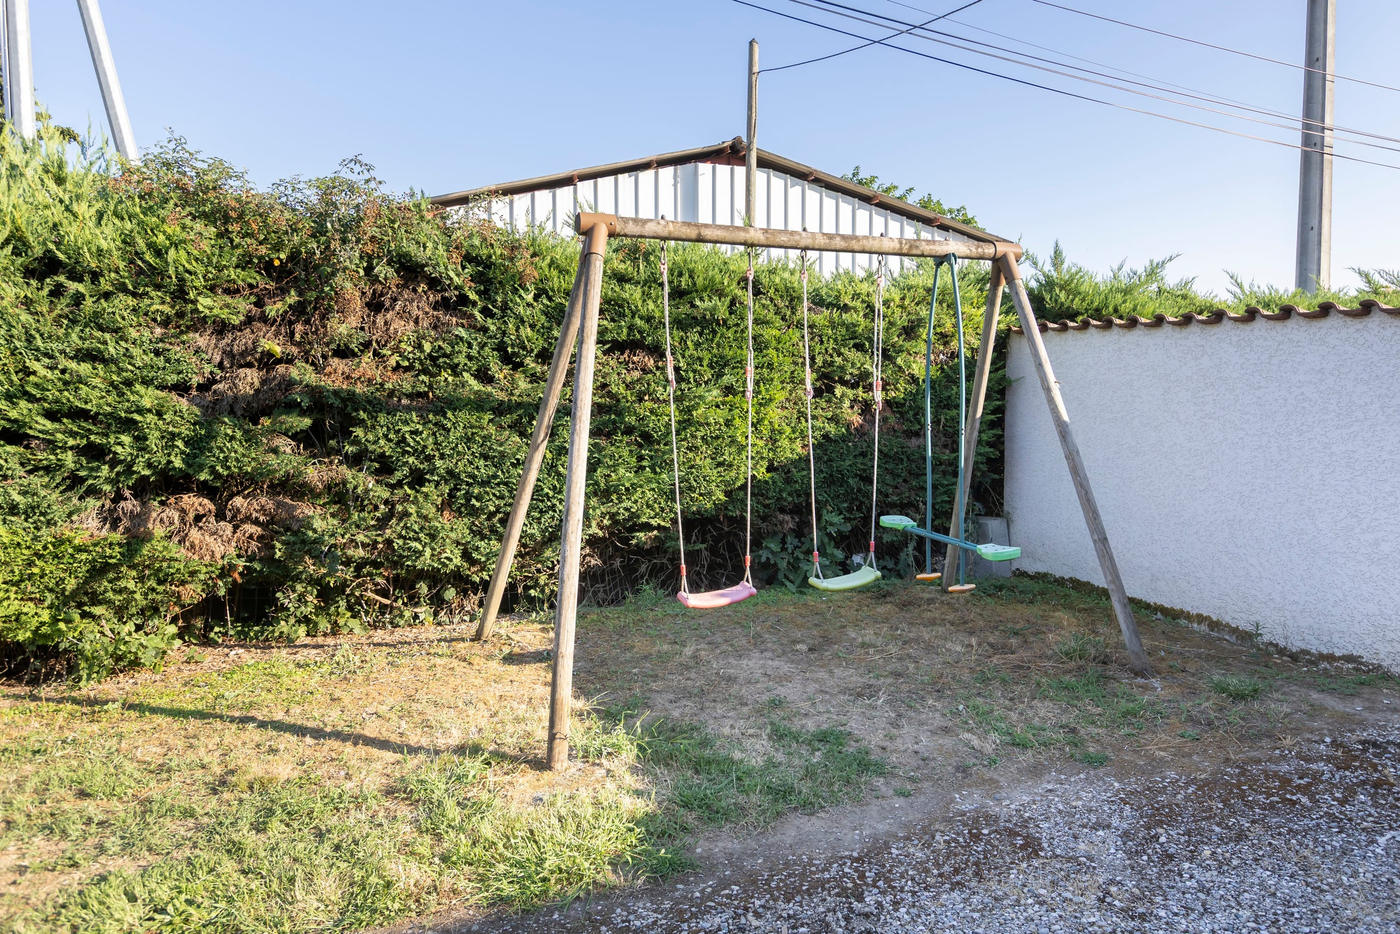
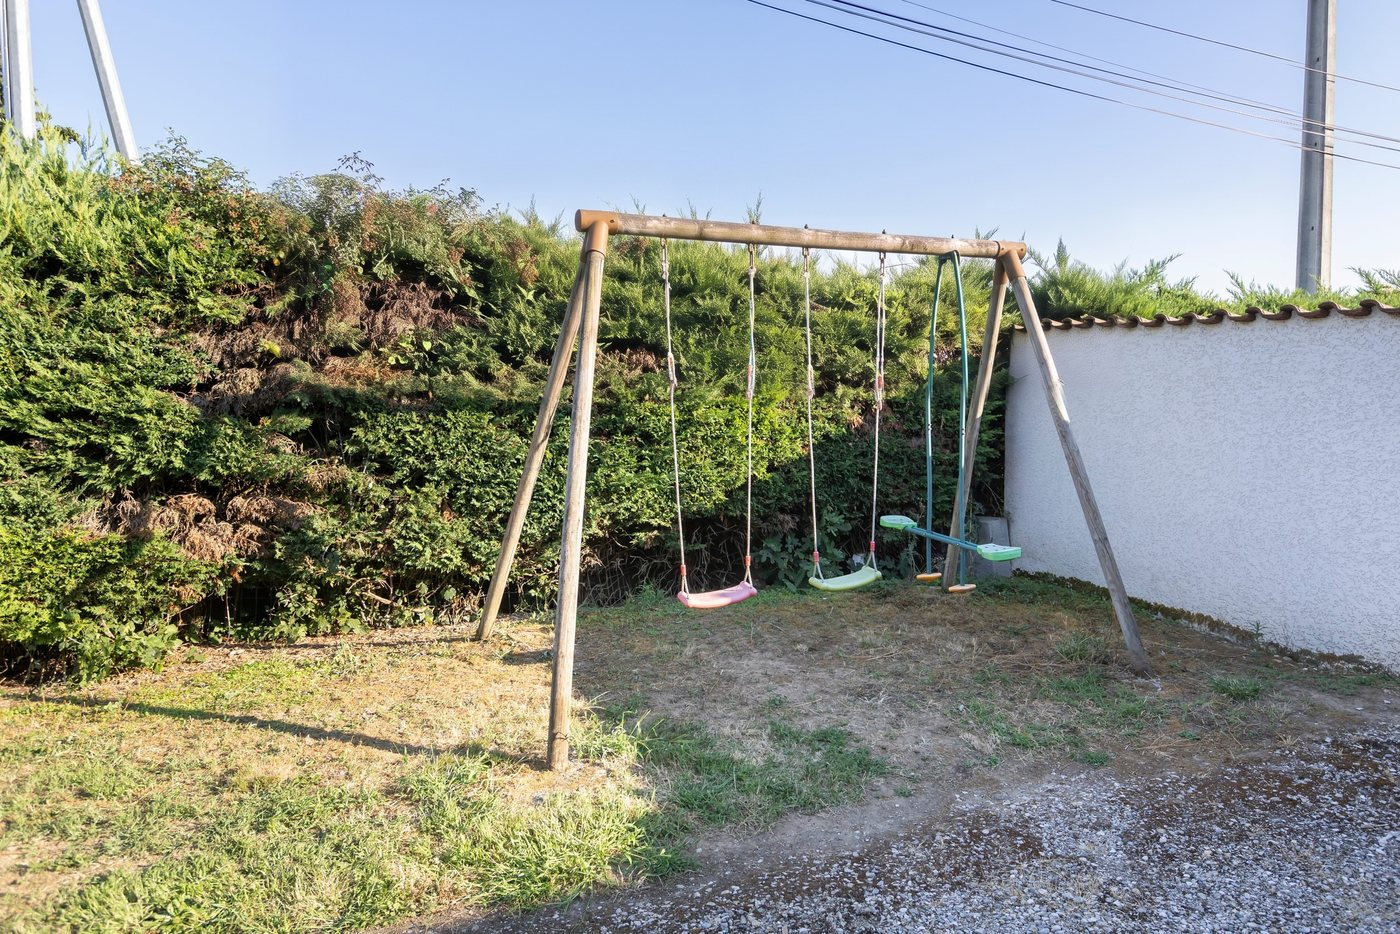
Menu sur pastille ocre, activités The Village, Kinépolis et Ain'Pulse, trois photos retouchées

diff --git a/index.html b/index.html
@@ -135,7 +135,7 @@
 <section class="section glacier" id="activites">
   <div class="conteneur">
     <div class="entete-section"><div><span class="surtitre"><svg viewBox="0 0 24 24" fill="none" stroke="currentColor" stroke-width="1.7" stroke-linecap="round" stroke-linejoin="round" aria-hidden="true"><path d="M12 22V9"/><path d="M12 13c-2.5 0-4-1.6-4-4 2.5 0 4 1.6 4 4zM12 13c2.5 0 4-1.6 4-4-2.5 0-4 1.6-4 4zM12 9c-2.2 0-3.5-1.4-3.5-3.5C10.7 5.5 12 6.9 12 9zM12 9c2.2 0 3.5-1.4 3.5-3.5C13.3 5.5 12 6.9 12 9zM12 5.5c-1-1-1-2.5 0-3.5 1 1 1 2.5 0 3.5z"/></svg>Autour du domaine</span><h2>Les activités <em class="it">à voir</em></h2></div></div>
-    <div class="activites"><button class="activite carte-cliquable large" data-modale="m-vienne" data-reveal><img src="images/region/theatre.jpg" alt="Vienne la romaine" loading="lazy" decoding="async"><div class="txt"><h3>Vienne la romaine</h3><small>Le théâtre antique, à 25 min</small></div></button><button class="activite carte-cliquable" data-modale="m-lyon" data-reveal><img src="images/region/lyon.jpg" alt="Lyon" loading="lazy" decoding="async"><div class="txt"><h3>Lyon</h3><small>Le Vieux-Lyon et Fourvière, à 45 min</small></div></button><button class="activite carte-cliquable" data-modale="m-cremieu" data-reveal><img src="images/region/cremieu.jpg" alt="Crémieu" loading="lazy" decoding="async"><div class="txt"><h3>Crémieu</h3><small>Sa halle du XVe siècle, à 35 min</small></div></button><button class="activite carte-cliquable" data-modale="m-perouges" data-reveal><img src="images/region/perouges.jpg" alt="Pérouges" loading="lazy" decoding="async"><div class="txt"><h3>Pérouges</h3><small>Cité médiévale, à 55 min</small></div></button><button class="activite carte-cliquable" data-modale="m-cheval" data-reveal><img src="images/region/cheval.jpg" alt="Le Palais idéal" loading="lazy" decoding="async"><div class="txt"><h3>Le Palais idéal</h3><small>Du facteur Cheval, à 50 min</small></div></button><button class="activite carte-cliquable" data-modale="m-paladru" data-reveal><img src="images/region/paladru.jpg" alt="Le lac de Paladru" loading="lazy" decoding="async"><div class="txt"><h3>Le lac de Paladru</h3><small>Baignade et balades, à 1 h</small></div></button><button class="activite carte-cliquable" data-modale="m-cote-rotie" data-reveal><img src="images/region/cote-rotie.jpg" alt="La Côte-Rôtie" loading="lazy" decoding="async"><div class="txt"><h3>La Côte-Rôtie</h3><small>Les vignes d’Ampuis, à 35 min</small></div></button></div>
+    <div class="activites"><button class="activite carte-cliquable large" data-modale="m-the-village" data-reveal><img src="images/region/the-village.jpg" alt="The Village" loading="lazy" decoding="async"><div class="txt"><h3>The Village</h3><small>Le village de marques de Villefontaine, à 20 min</small></div></button><button class="activite carte-cliquable" data-modale="m-kinepolis" data-reveal><img src="images/region/cinema.jpg" alt="Le Kinépolis" loading="lazy" decoding="async"><div class="txt"><h3>Le Kinépolis</h3><small>Le cinéma de Bourgoin-Jallieu, à 30 min</small></div></button><button class="activite carte-cliquable" data-modale="m-ainpulse" data-reveal><img src="images/region/toboggan.jpg" alt="Ain’Pulse" loading="lazy" decoding="async"><div class="txt"><h3>Ain’Pulse</h3><small>Le centre aquatique de Saint-Vulbas, à 50 min</small></div></button><button class="activite carte-cliquable large" data-modale="m-vienne" data-reveal><img src="images/region/theatre.jpg" alt="Vienne la romaine" loading="lazy" decoding="async"><div class="txt"><h3>Vienne la romaine</h3><small>Le théâtre antique, à 25 min</small></div></button><button class="activite carte-cliquable" data-modale="m-lyon" data-reveal><img src="images/region/lyon.jpg" alt="Lyon" loading="lazy" decoding="async"><div class="txt"><h3>Lyon</h3><small>Le Vieux-Lyon et Fourvière, à 45 min</small></div></button><button class="activite carte-cliquable" data-modale="m-cremieu" data-reveal><img src="images/region/cremieu.jpg" alt="Crémieu" loading="lazy" decoding="async"><div class="txt"><h3>Crémieu</h3><small>Sa halle du XVe siècle, à 35 min</small></div></button><button class="activite carte-cliquable" data-modale="m-perouges" data-reveal><img src="images/region/perouges.jpg" alt="Pérouges" loading="lazy" decoding="async"><div class="txt"><h3>Pérouges</h3><small>Cité médiévale, à 55 min</small></div></button><button class="activite carte-cliquable" data-modale="m-cheval" data-reveal><img src="images/region/cheval.jpg" alt="Le Palais idéal" loading="lazy" decoding="async"><div class="txt"><h3>Le Palais idéal</h3><small>Du facteur Cheval, à 50 min</small></div></button><button class="activite carte-cliquable" data-modale="m-paladru" data-reveal><img src="images/region/paladru.jpg" alt="Le lac de Paladru" loading="lazy" decoding="async"><div class="txt"><h3>Le lac de Paladru</h3><small>Baignade et balades, à 1 h</small></div></button><button class="activite carte-cliquable" data-modale="m-cote-rotie" data-reveal><img src="images/region/cote-rotie.jpg" alt="La Côte-Rôtie" loading="lazy" decoding="async"><div class="txt"><h3>La Côte-Rôtie</h3><small>Les vignes d’Ampuis, à 35 min</small></div></button></div>
   </div>
 </section>
 
@@ -252,7 +252,40 @@
     </div>
   </div>
 </dialog>
-<dialog class="modale" id="m-vienne" aria-labelledby="m-vienne-titre">
+<dialog class="modale" id="m-the-village" aria-labelledby="m-the-village-titre">
+  <div class="modale-boite">
+    <button class="modale-fermer" aria-label="Fermer"><svg viewBox="0 0 24 24" fill="none" stroke="currentColor" stroke-width="1.7" stroke-linecap="round" stroke-linejoin="round" aria-hidden="true"><path d="M6 6l12 12M18 6 6 18"/></svg></button>
+    <div class="modale-photos n1"><img src="images/region/the-village.jpg" alt="The Village" loading="lazy" decoding="async"></div>
+    <div class="modale-texte">
+      <span class="surtitre"><svg viewBox="0 0 24 24" fill="none" stroke="currentColor" stroke-width="1.7" stroke-linecap="round" stroke-linejoin="round" aria-hidden="true"><path d="M12 22V9"/><path d="M12 13c-2.5 0-4-1.6-4-4 2.5 0 4 1.6 4 4zM12 13c2.5 0 4-1.6 4-4-2.5 0-4 1.6-4 4zM12 9c-2.2 0-3.5-1.4-3.5-3.5C10.7 5.5 12 6.9 12 9zM12 9c2.2 0 3.5-1.4 3.5-3.5C13.3 5.5 12 6.9 12 9zM12 5.5c-1-1-1-2.5 0-3.5 1 1 1 2.5 0 3.5z"/></svg>À voir, à 20 min</span>
+      <h3 id="m-the-village-titre">The Village</h3>
+      <p>Un village de marques à ciel ouvert, l’un des plus grands outlets de France : mode, accessoires et maison de grandes marques, de 30 à 70 % moins cher toute l’année, avec restaurants et terrasses pour faire une pause.</p>
+      <div class="boutons"><a class="btn btn-plein" href="#contact" data-obt-reserve="le-domaine"><svg viewBox="0 0 24 24" fill="none" stroke="currentColor" stroke-width="1.7" stroke-linecap="round" stroke-linejoin="round" aria-hidden="true"><rect x="3" y="5" width="18" height="16" rx="2"/><path d="M3 10h18M8 3v4M16 3v4M8 14h2M14 14h2M8 17h2"/></svg> Voir les disponibilités</a><a class="btn btn-contour" href="tel:+33652842133"><svg viewBox="0 0 24 24" fill="none" stroke="currentColor" stroke-width="1.7" stroke-linecap="round" stroke-linejoin="round" aria-hidden="true"><path d="M22 16.9v3a2 2 0 0 1-2.2 2 19.8 19.8 0 0 1-8.6-3.1 19.5 19.5 0 0 1-6-6A19.8 19.8 0 0 1 2.1 4.2 2 2 0 0 1 4.1 2h3a2 2 0 0 1 2 1.7c.1 1 .4 1.9.7 2.8a2 2 0 0 1-.5 2.1L8 9.9a16 16 0 0 0 6 6l1.3-1.3a2 2 0 0 1 2.1-.4c.9.3 1.8.6 2.8.7a2 2 0 0 1 1.7 2z"/></svg> 06 52 84 21 33</a></div>
+    </div>
+  </div>
+</dialog><dialog class="modale" id="m-kinepolis" aria-labelledby="m-kinepolis-titre">
+  <div class="modale-boite">
+    <button class="modale-fermer" aria-label="Fermer"><svg viewBox="0 0 24 24" fill="none" stroke="currentColor" stroke-width="1.7" stroke-linecap="round" stroke-linejoin="round" aria-hidden="true"><path d="M6 6l12 12M18 6 6 18"/></svg></button>
+    <div class="modale-photos n1"><img src="images/region/cinema.jpg" alt="Le Kinépolis" loading="lazy" decoding="async"></div>
+    <div class="modale-texte">
+      <span class="surtitre"><svg viewBox="0 0 24 24" fill="none" stroke="currentColor" stroke-width="1.7" stroke-linecap="round" stroke-linejoin="round" aria-hidden="true"><path d="M12 22V9"/><path d="M12 13c-2.5 0-4-1.6-4-4 2.5 0 4 1.6 4 4zM12 13c2.5 0 4-1.6 4-4-2.5 0-4 1.6-4 4zM12 9c-2.2 0-3.5-1.4-3.5-3.5C10.7 5.5 12 6.9 12 9zM12 9c2.2 0 3.5-1.4 3.5-3.5C13.3 5.5 12 6.9 12 9zM12 5.5c-1-1-1-2.5 0-3.5 1 1 1 2.5 0 3.5z"/></svg>À voir, à 30 min</span>
+      <h3 id="m-kinepolis-titre">Le Kinépolis</h3>
+      <p>Le cinéma de Bourgoin-Jallieu, place Jean-Jacques Rousseau : les dernières sorties sur grand écran, pour une soirée en famille ou un jour de pluie.</p>
+      <div class="boutons"><a class="btn btn-plein" href="#contact" data-obt-reserve="le-domaine"><svg viewBox="0 0 24 24" fill="none" stroke="currentColor" stroke-width="1.7" stroke-linecap="round" stroke-linejoin="round" aria-hidden="true"><rect x="3" y="5" width="18" height="16" rx="2"/><path d="M3 10h18M8 3v4M16 3v4M8 14h2M14 14h2M8 17h2"/></svg> Voir les disponibilités</a><a class="btn btn-contour" href="tel:+33652842133"><svg viewBox="0 0 24 24" fill="none" stroke="currentColor" stroke-width="1.7" stroke-linecap="round" stroke-linejoin="round" aria-hidden="true"><path d="M22 16.9v3a2 2 0 0 1-2.2 2 19.8 19.8 0 0 1-8.6-3.1 19.5 19.5 0 0 1-6-6A19.8 19.8 0 0 1 2.1 4.2 2 2 0 0 1 4.1 2h3a2 2 0 0 1 2 1.7c.1 1 .4 1.9.7 2.8a2 2 0 0 1-.5 2.1L8 9.9a16 16 0 0 0 6 6l1.3-1.3a2 2 0 0 1 2.1-.4c.9.3 1.8.6 2.8.7a2 2 0 0 1 1.7 2z"/></svg> 06 52 84 21 33</a></div>
+    </div>
+  </div>
+</dialog><dialog class="modale" id="m-ainpulse" aria-labelledby="m-ainpulse-titre">
+  <div class="modale-boite">
+    <button class="modale-fermer" aria-label="Fermer"><svg viewBox="0 0 24 24" fill="none" stroke="currentColor" stroke-width="1.7" stroke-linecap="round" stroke-linejoin="round" aria-hidden="true"><path d="M6 6l12 12M18 6 6 18"/></svg></button>
+    <div class="modale-photos n1"><img src="images/region/toboggan.jpg" alt="Ain’Pulse" loading="lazy" decoding="async"></div>
+    <div class="modale-texte">
+      <span class="surtitre"><svg viewBox="0 0 24 24" fill="none" stroke="currentColor" stroke-width="1.7" stroke-linecap="round" stroke-linejoin="round" aria-hidden="true"><path d="M12 22V9"/><path d="M12 13c-2.5 0-4-1.6-4-4 2.5 0 4 1.6 4 4zM12 13c2.5 0 4-1.6 4-4-2.5 0-4 1.6-4 4zM12 9c-2.2 0-3.5-1.4-3.5-3.5C10.7 5.5 12 6.9 12 9zM12 9c2.2 0 3.5-1.4 3.5-3.5C13.3 5.5 12 6.9 12 9zM12 5.5c-1-1-1-2.5 0-3.5 1 1 1 2.5 0 3.5z"/></svg>À voir, à 50 min</span>
+      <h3 id="m-ainpulse-titre">Ain’Pulse</h3>
+      <p>Un centre aquatique de loisirs : bassin sportif de 25 m, bassin ludique, toboggan de 75 m et rivière nordique, avec un espace forme avec sauna et hammam. Une sortie qui plaît aux enfants toute l’année.</p>
+      <div class="boutons"><a class="btn btn-plein" href="#contact" data-obt-reserve="le-domaine"><svg viewBox="0 0 24 24" fill="none" stroke="currentColor" stroke-width="1.7" stroke-linecap="round" stroke-linejoin="round" aria-hidden="true"><rect x="3" y="5" width="18" height="16" rx="2"/><path d="M3 10h18M8 3v4M16 3v4M8 14h2M14 14h2M8 17h2"/></svg> Voir les disponibilités</a><a class="btn btn-contour" href="tel:+33652842133"><svg viewBox="0 0 24 24" fill="none" stroke="currentColor" stroke-width="1.7" stroke-linecap="round" stroke-linejoin="round" aria-hidden="true"><path d="M22 16.9v3a2 2 0 0 1-2.2 2 19.8 19.8 0 0 1-8.6-3.1 19.5 19.5 0 0 1-6-6A19.8 19.8 0 0 1 2.1 4.2 2 2 0 0 1 4.1 2h3a2 2 0 0 1 2 1.7c.1 1 .4 1.9.7 2.8a2 2 0 0 1-.5 2.1L8 9.9a16 16 0 0 0 6 6l1.3-1.3a2 2 0 0 1 2.1-.4c.9.3 1.8.6 2.8.7a2 2 0 0 1 1.7 2z"/></svg> 06 52 84 21 33</a></div>
+    </div>
+  </div>
+</dialog><dialog class="modale" id="m-vienne" aria-labelledby="m-vienne-titre">
   <div class="modale-boite">
     <button class="modale-fermer" aria-label="Fermer"><svg viewBox="0 0 24 24" fill="none" stroke="currentColor" stroke-width="1.7" stroke-linecap="round" stroke-linejoin="round" aria-hidden="true"><path d="M6 6l12 12M18 6 6 18"/></svg></button>
     <div class="modale-photos n2"><img src="images/region/theatre.jpg" alt="Vienne la romaine" loading="lazy" decoding="async"><img src="images/region/temple.jpg" alt="Le temple d’Auguste et de Livie" loading="lazy" decoding="async"></div>

diff --git a/mentions-legales.html b/mentions-legales.html
@@ -37,7 +37,7 @@
     <p>Site réalisé par OBT Agency, création de sites internet.</p>
     <h2 id="credits">Crédits photos</h2>
     <p>Photos du gîte : Au Domaine de Chasse. Photos de la région : Wikimedia Commons.</p>
-    <ul><li>BDM38 : Nicolasdu38, CC BY-SA 3.0, <a href="https://commons.wikimedia.org/wiki/File:BDM38.jpg" target="_blank" rel="noopener">source</a></li><li>Saint-Didier Paysage : Hélène Rival, CC BY-SA 4.0, <a href="https://commons.wikimedia.org/wiki/File:Saint-Didier_Paysage.jpg" target="_blank" rel="noopener">source</a></li><li>Théâtre Antique de Vienne 14 : Jsamwrites, CC BY-SA 4.0, <a href="https://commons.wikimedia.org/wiki/File:Th%C3%A9%C3%A2tre_Antique_de_Vienne_14.jpg" target="_blank" rel="noopener">source</a></li><li>Temple of Augustus and Livia in Vienne (3) : Tournasol7, CC BY-SA 4.0, <a href="https://commons.wikimedia.org/wiki/File:Temple_of_Augustus_and_Livia_in_Vienne_(3).jpg" target="_blank" rel="noopener">source</a></li><li>Lyon, an der Saône, Cathédrale Saint-Jean-Baptiste (12.), hinten Notre-Dame de Fourvière (19.) (41976211044) : Herbert Frank from Wien (Vienna), AT, CC BY 2.0, <a href="https://commons.wikimedia.org/wiki/File:Lyon,_an_der_Sa%C3%B4ne,_Cath%C3%A9drale_Saint-Jean-Baptiste_(12.),_hinten_Notre-Dame_de_Fourvi%C3%A8re_(19.)_(41976211044).jpg" target="_blank" rel="noopener">source</a></li><li>Rue de la Halle à Pérouges en avril 2021 : Benoît Prieur, CC0, <a href="https://commons.wikimedia.org/wiki/File:Rue_de_la_Halle_%C3%A0_P%C3%A9rouges_en_avril_2021.jpg" target="_blank" rel="noopener">source</a></li><li>Crémieu (Août 2025), Halle : Mathieu BROSSAIS, CC BY 4.0, <a href="https://commons.wikimedia.org/wiki/File:Cr%C3%A9mieu_(Ao%C3%BBt_2025)_-_Halle.jpg" target="_blank" rel="noopener">source</a></li><li>Lac de Paladru 02 : John Samuel, CC BY-SA 4.0, <a href="https://commons.wikimedia.org/wiki/File:Lac_de_Paladru_02.jpg" target="_blank" rel="noopener">source</a></li><li>Palais idéal du facteur Cheval, Juin 2023, 15 : Flibust1er, CC BY 4.0, <a href="https://commons.wikimedia.org/wiki/File:Palais_id%C3%A9al_du_facteur_Cheval_-_Juin_2023_-_15.jpg" target="_blank" rel="noopener">source</a></li><li>Parcelles du vignoble à Ampuis : Daniel CULSAN, CC BY-SA 3.0, <a href="https://commons.wikimedia.org/wiki/File:Parcelles_du_vignoble_%C3%A0_Ampuis.jpg" target="_blank" rel="noopener">source</a></li><li>Château de Septème (Isère) : Daniel CULSAN, CC BY-SA 4.0, <a href="https://commons.wikimedia.org/wiki/File:Ch%C3%A2teau_de_Sept%C3%A8me_(Is%C3%A8re).JPG" target="_blank" rel="noopener">source</a></li><li>Centre-ville et Hôtel de ville de Saint-Jean-de-Bournay : Jean-Paul Corlin, CC BY-SA 4.0, <a href="https://commons.wikimedia.org/wiki/File:Centre-ville_et_H%C3%B4tel_de_ville_de_Saint-Jean-de-Bournay.jpg" target="_blank" rel="noopener">source</a></li></ul>
+    <ul><li>BDM38 : Nicolasdu38, CC BY-SA 3.0, <a href="https://commons.wikimedia.org/wiki/File:BDM38.jpg" target="_blank" rel="noopener">source</a></li><li>Saint-Didier Paysage : Hélène Rival, CC BY-SA 4.0, <a href="https://commons.wikimedia.org/wiki/File:Saint-Didier_Paysage.jpg" target="_blank" rel="noopener">source</a></li><li>Théâtre Antique de Vienne 14 : Jsamwrites, CC BY-SA 4.0, <a href="https://commons.wikimedia.org/wiki/File:Th%C3%A9%C3%A2tre_Antique_de_Vienne_14.jpg" target="_blank" rel="noopener">source</a></li><li>Temple of Augustus and Livia in Vienne (3) : Tournasol7, CC BY-SA 4.0, <a href="https://commons.wikimedia.org/wiki/File:Temple_of_Augustus_and_Livia_in_Vienne_(3).jpg" target="_blank" rel="noopener">source</a></li><li>Lyon, an der Saône, Cathédrale Saint-Jean-Baptiste (12.), hinten Notre-Dame de Fourvière (19.) (41976211044) : Herbert Frank from Wien (Vienna), AT, CC BY 2.0, <a href="https://commons.wikimedia.org/wiki/File:Lyon,_an_der_Sa%C3%B4ne,_Cath%C3%A9drale_Saint-Jean-Baptiste_(12.),_hinten_Notre-Dame_de_Fourvi%C3%A8re_(19.)_(41976211044).jpg" target="_blank" rel="noopener">source</a></li><li>Rue de la Halle à Pérouges en avril 2021 : Benoît Prieur, CC0, <a href="https://commons.wikimedia.org/wiki/File:Rue_de_la_Halle_%C3%A0_P%C3%A9rouges_en_avril_2021.jpg" target="_blank" rel="noopener">source</a></li><li>Crémieu (Août 2025), Halle : Mathieu BROSSAIS, CC BY 4.0, <a href="https://commons.wikimedia.org/wiki/File:Cr%C3%A9mieu_(Ao%C3%BBt_2025)_-_Halle.jpg" target="_blank" rel="noopener">source</a></li><li>Lac de Paladru 02 : John Samuel, CC BY-SA 4.0, <a href="https://commons.wikimedia.org/wiki/File:Lac_de_Paladru_02.jpg" target="_blank" rel="noopener">source</a></li><li>Palais idéal du facteur Cheval, Juin 2023, 15 : Flibust1er, CC BY 4.0, <a href="https://commons.wikimedia.org/wiki/File:Palais_id%C3%A9al_du_facteur_Cheval_-_Juin_2023_-_15.jpg" target="_blank" rel="noopener">source</a></li><li>Parcelles du vignoble à Ampuis : Daniel CULSAN, CC BY-SA 3.0, <a href="https://commons.wikimedia.org/wiki/File:Parcelles_du_vignoble_%C3%A0_Ampuis.jpg" target="_blank" rel="noopener">source</a></li><li>Château de Septème (Isère) : Daniel CULSAN, CC BY-SA 4.0, <a href="https://commons.wikimedia.org/wiki/File:Ch%C3%A2teau_de_Sept%C3%A8me_(Is%C3%A8re).JPG" target="_blank" rel="noopener">source</a></li><li>Centre-ville et Hôtel de ville de Saint-Jean-de-Bournay : Jean-Paul Corlin, CC BY-SA 4.0, <a href="https://commons.wikimedia.org/wiki/File:Centre-ville_et_H%C3%B4tel_de_ville_de_Saint-Jean-de-Bournay.jpg" target="_blank" rel="noopener">source</a></li><li>The Village, Villefontaine : Vaucourt.thevillage, CC0, <a href="https://commons.wikimedia.org/wiki/File:The_Village_-_Villefontaine.jpg" target="_blank" rel="noopener">source</a></li><li>City of Summit Family Aquatic Center water slide : Tomwsulcer, CC0, <a href="https://commons.wikimedia.org/wiki/File:City_of_Summit_Family_Aquatic_Center_water_slide.JPG" target="_blank" rel="noopener">source</a></li><li>Salle cinéma 3049 : HDewaere, CC BY-SA 4.0, <a href="https://commons.wikimedia.org/wiki/File:Salle_cin%C3%A9ma_3049.jpg" target="_blank" rel="noopener">source</a></li></ul>
     <h2>Données personnelles</h2>
     <p>Les informations envoyées par le formulaire de contact ou le module de réservation servent uniquement à répondre à votre demande.</p>
   </div>

diff --git a/css/style.css b/css/style.css
@@ -571,3 +571,18 @@ dialog.modale::backdrop{background:rgba(14,22,16,.72);backdrop-filter:blur(3px)}
 body.modale-ouverte{overflow:hidden}
 @media (max-width:900px){.modale-boite{grid-template-columns:1fr}.modale-photos{min-height:280px}.modale-photos.n1 img{min-height:280px}.menu{gap:4px}}
 @media (max-width:600px){.duo-texte .pieces{grid-template-columns:1fr 1fr}}
+
+/* ===== 31/10/2026 : menu sur une pastille ocre arrondie (souhait de la cliente), rappels ocre à côté du vert ===== */
+:root{--ocre:#a8662b;--ocre-fonce:#8f5523;--soleil:#b8772f}
+.entete .menu{background:var(--ocre);color:#fff;border-radius:999px;padding:4px 26px;gap:22px;box-shadow:0 10px 26px -14px rgba(60,30,8,.7)}
+.entete .menu a{color:#fff}
+.entete .menu a::after{background:#fff}
+.chiffres{border-top-color:var(--ocre)}
+.pied{border-top:4px solid var(--ocre)}
+.pied h4{color:var(--ocre-fonce)}
+@media (max-width:1100px){.entete .menu{padding:4px 18px;gap:14px}}
+@media (max-width:900px){
+  .entete.menu-ouvert .menu{border-radius:0;background:var(--fond);padding:24px;box-shadow:none;border-top:4px solid var(--ocre);gap:4px}
+  .entete.menu-ouvert .menu a{color:var(--encre)}
+  .barre-mobile a:not(.appeler){color:var(--ocre-fonce)}
+}
